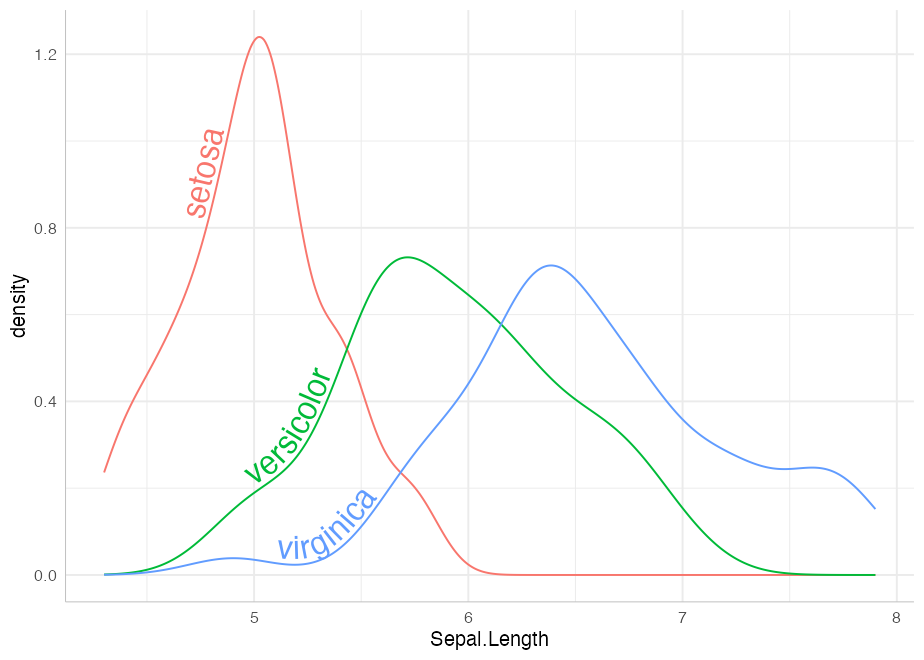
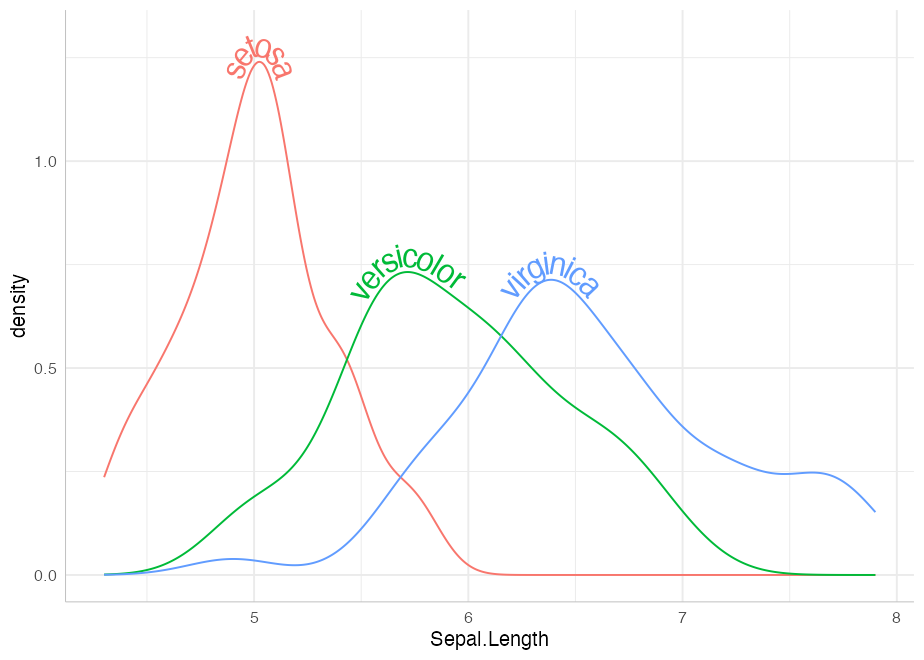
Re-build README.Rmd

diff --git a/README.md b/README.md
@@ -143,33 +143,6 @@ ggplot(pressure, aes(temperature, pressure)) +
 
 <img src="man/figures/README-textline_demo-1.png" width="100%" style="display: block; margin: auto;" />
 
-### Reference lines
-
-Often, a reference line added to a plot requires a text annotation. We
-can do this directly with `geom_textabline`, `geom_textvline` and
-`geom_texthline`, or their text-box equivalents `geom_labelabline`,
-`geom_labelvline` and `geom_labelhline`. Although such lines aren’t
-curved, there are some benefits to using the `geomtextpath` functions if
-a labelled reference line is required: only a single call is needed,
-co-ordinates are not required for the text label, the text can be put
-in-line with an appropriate break in the line automatically, and the
-label will orientate and curve appropriately in polar co-ordinates.
-
-This example shows all three text-based reference line geoms:
-
-``` r
-ggplot(mtcars, aes(mpg, disp)) + 
-  geom_point() + 
-  geom_texthline(yintercept = 200, label = "displacement threshold", 
-                 hjust = 0.8, color = "red4") +
-  geom_textvline(xintercept = 20, label = "consumption threshold", hjust = 0.8,
-                 linetype = 2, vjust = 1.3, color = "blue4") +
-  geom_textabline(slope = 15, intercept = -100, label = "partition line", 
-                  color = "green4", hjust = 0.6, vjust = -0.2)
-```
-
-<img src="man/figures/README-vline-1.png" width="100%" style="display: block; margin: auto;" />
-
 ### `geom_textdensity` and `geom_labeldensity`
 
 These are the analogues of `geom_density` that allows for smoothly
@@ -261,6 +234,33 @@ ggplot(data = df) +
 
 <img src="man/figures/README-geom_textsf-1.png" width="100%" style="display: block; margin: auto;" />
 
+### Reference lines
+
+Often, a reference line added to a plot requires a text annotation. We
+can do this directly with `geom_textabline`, `geom_textvline` and
+`geom_texthline`, or their text-box equivalents `geom_labelabline`,
+`geom_labelvline` and `geom_labelhline`. Although such lines aren’t
+curved, there are some benefits to using the `geomtextpath` functions if
+a labelled reference line is required: only a single call is needed,
+co-ordinates are not required for the text label, the text can be put
+in-line with an appropriate break in the line automatically, and the
+label will orientate and curve appropriately in polar co-ordinates.
+
+This example shows all three text-based reference line geoms:
+
+``` r
+ggplot(mtcars, aes(mpg, disp)) + 
+  geom_point() + 
+  geom_texthline(yintercept = 200, label = "displacement threshold", 
+                 hjust = 0.8, color = "red4") +
+  geom_textvline(xintercept = 20, label = "consumption threshold", hjust = 0.8,
+                 linetype = 2, vjust = 1.3, color = "blue4") +
+  geom_textabline(slope = 15, intercept = -100, label = "partition line", 
+                  color = "green4", hjust = 0.6, vjust = -0.2)
+```
+
+<img src="man/figures/README-vline-1.png" width="100%" style="display: block; margin: auto;" />
+
 ### Arbitrary `stat` transformations
 
 Other “stat” transformations can be used directly on `geom_textpath` and
@@ -296,16 +296,21 @@ the line is automatically “filled in”.
 
 For short text labels applied to long paths, we need a parameter to
 control how far along the path the text is placed. For this we use the
-horizontal justification (`hjust`) parameter.
+horizontal justification (`hjust`) parameter. This can be numeric (0 to
+1), or can accept position descriptions such as “xmid”, “ymax”, or
+“auto”.
 
 Here is an example of text justified above the line of the path using a
-small negative value of `vjust`:
+small negative value of `vjust`, and the `hjust` set to “ymax” to place
+the labels over the peak of each curve:
 
 ``` r
 p <- ggplot(iris, aes(x = Sepal.Length, colour = Species, label = Species)) +
        theme(legend.position = "none")
 
-p + geom_textdensity(size = 6, fontface = 2, vjust = -0.2, hjust = 0.2)
+p + 
+  geom_textdensity(size = 6, fontface = 2, vjust = -0.2, hjust = "ymax") +
+  ylim(c(0, 1.3))
 ```
 
 <img src="man/figures/README-density_vjust-1.png" width="100%" style="display: block; margin: auto;" />
@@ -582,14 +587,6 @@ convex curves will not be deformed so that individual letters are
 narrower at the bottom and wider at the top. Doing so would require
 reinterpreting the letters as polygons, which would likely cause more
 problems than it would solve.
-
-Many paths will be too noisy or too angular to directly label in a
-visually appealing fashion if the text adheres too closely to the
-intricacies of the line. Often, a `geom_textsmooth` with `text_only =
-TRUE` is the best option in such cases, as in the examples above. There
-is also a `straight` parameter so that a label is still applied at an
-appropriate point and angle on the line, but the text will not attempt
-to follow every bump on the path.
 
 Other paths may have points of tight curvature, and setting an offset /
 vjust for the text that is larger than the distance to the focus point
